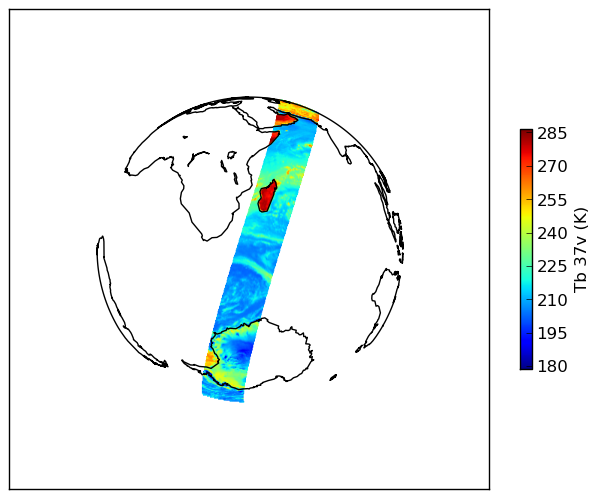
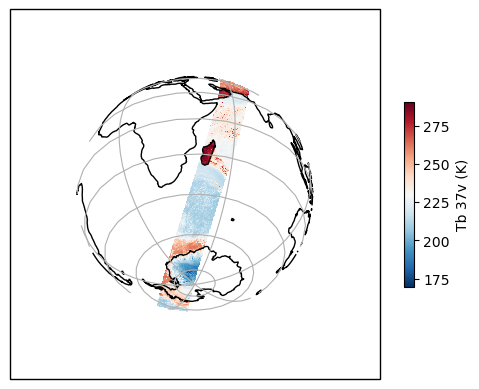
Update the ortho example to use new default colormap and yal area conf

diff --git a/docs/source/plot.rst b/docs/source/plot.rst
@@ -87,7 +87,10 @@ Assuming the file **areas.yaml** has the following area definition:
  >>> result = resample_nearest(swath_def, tb37v, area_def, radius_of_influence=20000, fill_value=None)
  >>> save_quicklook('tb37v_pc.png', area_def, result, num_meridians=0, num_parallels=0, label='Tb 37v (K)')
 
-Assuming **lons**, **lats** and **tb37v** are initialized with real data the result might look something like this:
+Assuming **lons**, **lats** and **tb37v** are initialized with real data (like
+above we use AMSR-2 data in this example) the result might look something like
+this:
+
   .. image:: _static/images/tb37v_pc.png
 
 
@@ -101,14 +104,19 @@ the following area definition for an ortho projection area:
 
 .. code-block:: bash
 
- REGION: ortho {
-   NAME:    Ortho globe
-   PCS_ID:  ortho_globe
-   PCS_DEF: proj=ortho, a=6370997.0, lon_0=40, lat_0=-40
-   XSIZE: 640
-   YSIZE: 480
-   AREA_EXTENT:  (-10000000, -10000000, 10000000, 10000000) 
- };
+  ortho:
+    description: Ortho globe
+    projection:
+      proj: ortho
+      lon_0: 40.
+      lat_0: -40.
+      a: 6370997.0
+    shape:
+      height: 480
+      width: 640
+    area_extent:
+      lower_left_xy: [-10000000, -10000000]
+      upper_right_xy: [10000000, 10000000]
 
 **Example usage:**
 
@@ -118,12 +126,15 @@ the following area definition for an ortho projection area:
  >>> lons = np.zeros(1000)
  >>> lats = np.arange(-80, -90, -0.01)
  >>> tb37v = np.arange(1000)
- >>> area_def = load_area('areas.cfg', 'ortho')
+ >>> area_def = load_area('areas.yaml', 'ortho')
  >>> swath_def = SwathDefinition(lons, lats)
  >>> result = resample_nearest(swath_def, tb37v, area_def, radius_of_influence=20000, fill_value=None)
  >>> save_quicklook('tb37v_ortho.png', area_def, result, num_meridians=0, num_parallels=0, label='Tb 37v (K)')
 
-Assuming **lons**, **lats** and **tb37v** are initialized with real data the result might look something like this:
+Assuming **lons**, **lats** and **tb37v** are initialized with real data, like
+in the above examples, the result might look something like this:
+
+
   .. image:: _static/images/tb37v_ortho.png
 
 
